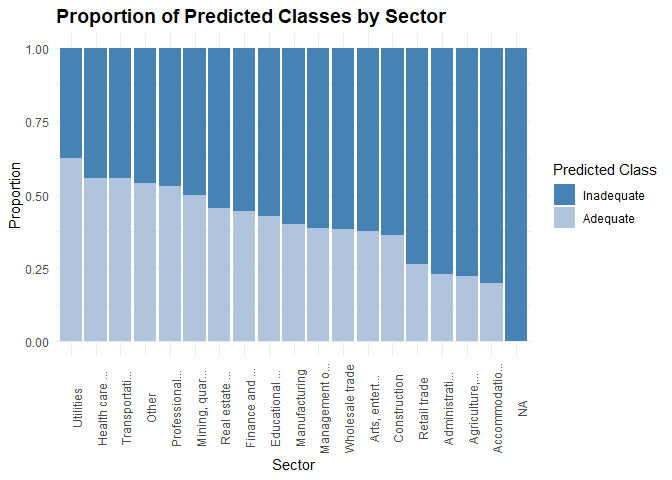
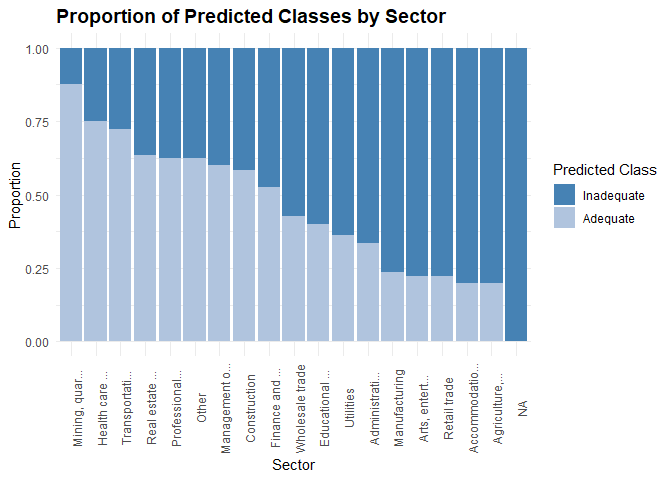
Knit final

diff --git a/notebooks/5_final_report.md b/notebooks/5_final_report.md
@@ -1,6 +1,6 @@
 # Classifying Retirement Plan Financial Adequacy Using Form 5500 Data: Final Project Report
 
-Donnie Minnick Statistical Learning - Fall A 2025 October 07, 2025
+Donnie Minnick Statistical Learning - Fall A 2025 October 08, 2025
 
 # Executive Summary
 
@@ -101,12 +101,12 @@ sets for model training and evaluation.
 
 | Split      | Adequacy Indicator | Observations | Percent |
 |:-----------|-------------------:|-------------:|--------:|
-| Train      |                  0 |          621 |    0.53 |
-| Train      |                  1 |          545 |    0.47 |
-| Validation |                  0 |          133 |    0.53 |
-| Validation |                  1 |          117 |    0.47 |
-| Test       |                  0 |          133 |    0.53 |
-| Test       |                  1 |          116 |    0.47 |
+| Train      |                  0 |          605 |    0.52 |
+| Train      |                  1 |          561 |    0.48 |
+| Validation |                  0 |          130 |    0.52 |
+| Validation |                  1 |          120 |    0.48 |
+| Test       |                  0 |          129 |    0.52 |
+| Test       |                  1 |          120 |    0.48 |
 
 Sample Records by Data Split
 
@@ -131,15 +131,15 @@ showed signs of overfitting.
 
 | Metric | Logistic Train | RF Train | Logistic Validate | RF Validate | Logistic Test | RF Test |
 |:---|---:|---:|---:|---:|---:|---:|
-| Accuracy | 0.8945 | 0.9983 | 0.8480 | 0.8720 | 0.8916 | 0.8635 |
-| AUC | 0.9627 | 0.9999 | 0.9377 | 0.9405 | 0.9408 | 0.9420 |
-| Balanced Accuracy | 0.8940 | 0.9982 | 0.8463 | 0.8751 | 0.8880 | 0.8628 |
-| Kappa | 0.7881 | 0.9966 | 0.6941 | 0.7448 | 0.7808 | 0.7256 |
-| McnemarPValue | 1.0000 | 0.4795 | 0.6265 | 0.0216 | 0.0543 | 1.0000 |
-| Neg Pred Value | 0.8879 | 1.0000 | 0.8496 | 0.8244 | 0.9238 | 0.8534 |
-| Pos Pred Value | 0.9003 | 0.9968 | 0.8467 | 0.9244 | 0.8681 | 0.8722 |
-| Sensitivity | 0.9018 | 1.0000 | 0.8722 | 0.8271 | 0.9398 | 0.8722 |
-| Specificity | 0.8862 | 0.9963 | 0.8205 | 0.9231 | 0.8362 | 0.8534 |
+| Accuracy | 0.8937 | 0.9991 | 0.8720 | 0.8360 | 0.8715 | 0.8835 |
+| AUC | 0.9551 | 1.0000 | 0.9503 | 0.9470 | 0.9557 | 0.9580 |
+| Balanced Accuracy | 0.8934 | 0.9992 | 0.8734 | 0.8397 | 0.8713 | 0.8853 |
+| Kappa | 0.7870 | 0.9983 | 0.7444 | 0.6741 | 0.7426 | 0.7676 |
+| McnemarPValue | 0.9284 | 1.0000 | 0.1116 | 0.0002 | 1.0000 | 0.0259 |
+| Neg Pred Value | 0.8909 | 0.9982 | 0.8385 | 0.7724 | 0.8667 | 0.8421 |
+| Pos Pred Value | 0.8962 | 1.0000 | 0.9083 | 0.9238 | 0.8760 | 0.9310 |
+| Sensitivity | 0.8992 | 0.9983 | 0.8385 | 0.7462 | 0.8760 | 0.8372 |
+| Specificity | 0.8877 | 1.0000 | 0.9083 | 0.9333 | 0.8667 | 0.9333 |
 
 Model Metrics by Model and Data Split
 
@@ -172,13 +172,13 @@ signals embedded in the feature space.
 
 | Adequacy Score | Logistic FN | Logistic FP | RF FN | RF FP | Total |
 |:---------------|------------:|------------:|------:|------:|------:|
-| 0              |           0 |           0 |     0 |     0 |     3 |
-| 1              |           0 |           0 |     0 |     0 |    16 |
-| 2              |           0 |           0 |     0 |     2 |    53 |
-| 3              |           0 |           8 |     0 |    15 |    61 |
-| 4              |          18 |           0 |    16 |     0 |    69 |
-| 5              |           1 |           0 |     1 |     0 |    32 |
-| 6              |           0 |           0 |     0 |     0 |    15 |
+| 0              |           0 |           0 |     0 |     0 |     4 |
+| 1              |           0 |           0 |     0 |     0 |    27 |
+| 2              |           0 |           2 |     0 |     2 |    34 |
+| 3              |           0 |          14 |     0 |    19 |    64 |
+| 4              |          16 |           0 |     8 |     0 |    59 |
+| 5              |           0 |           0 |     0 |     0 |    40 |
+| 6              |           0 |           0 |     0 |     0 |    21 |
 
 Misclassifications on Test Set by Adequacy Score and Model
 
